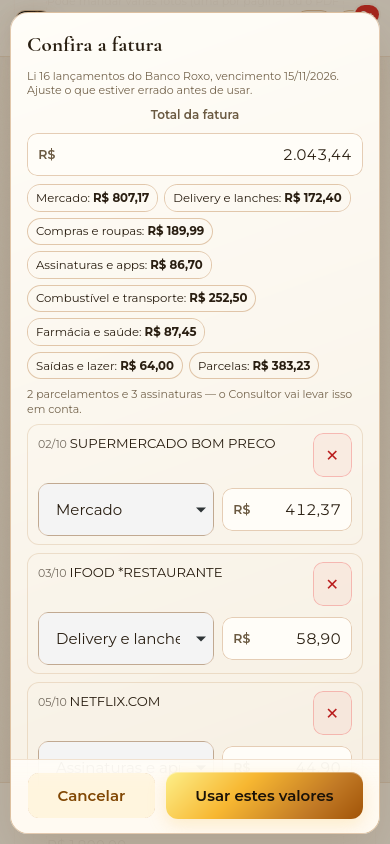
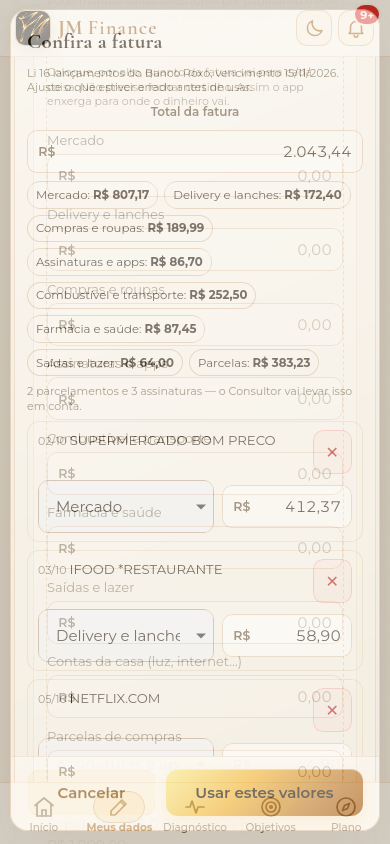
feat(objetivos): comparar juntar × financiamento × consórcio (custo total, parcela, prazo, espera pela contemplação), sem indicar empresa

Changed region(s): [[0.0, 0.0, 1.0, 1.0], [0.8, 0.3697, 0.8308, 0.4005]]

diff --git a/src/Consorcio.tsx b/src/Consorcio.tsx
@@ -1,0 +1,41 @@
+import { useState } from 'react';
+import { brl } from './finance';
+import { Adv } from './ui';
+import { compareBuy, buyKind, BUY_DEFAULTS, BuyParams } from './consorcio';
+
+const num = (s: string) => { const x = Number(String(s).replace(/\./g, '').replace(',', '.')); return Number.isFinite(x) ? x : 0; };
+const mo = (k: number) => k < 24 ? `${k} meses` : `${k} meses (~${Math.round(k / 12)} anos)`;
+
+/** Objetivos (carro, casa, compra grande): à vista × financiamento × consórcio */
+export function BuyWays({ name, price }: { name: string; price: number }) {
+  const kind = buyKind(name, price); const [p, setP] = useState<BuyParams>(BUY_DEFAULTS[kind]);
+  const [open, setOpen] = useState(false);
+  if (price < 10_000) return null;
+  const c = compareBuy(price, p);
+  const F = ({ k, label, suf, max }: { k: keyof BuyParams; label: string; suf: string; max: number }) => <label className="f-n">{label}
+    <input type="text" inputMode="decimal" aria-label={label} defaultValue={String(p[k]).replace('.', ',')} onBlur={e => { const v = num(e.target.value); if (v > 0 && v <= max) setP(q => ({ ...q, [k]: v })); }} /><small>{suf}</small></label>;
+  return <div className={`buy-ways ${open ? 'open' : ''}`}>
+    <button type="button" className="adv-toggle" aria-expanded={open} onClick={() => setOpen(o => !o)}><span>Juntar, financiar ou consórcio?</span>{!open && <small>compare</small>}<span className="adv-chev" aria-hidden="true">▾</span></button>
+    {open && <div className="adv-body">
+      <p className="fhint">Para {brl(price)} ({kind === 'imovel' ? 'imóvel' : 'veículo ou compra grande'}), com valores típicos de mercado. São estimativas para comparar — confira as propostas reais.</p>
+      <div className="buy-grid">
+        <div className="buy-col"><b>Juntar e comprar à vista</b>
+          <p>Guardando <b>{brl(c.save.monthly)}/mês</b></p><p>Tem o bem em <b>{c.save.months ? mo(c.save.months) : 'muito tempo'}</b></p><p>Custo: <b>{brl(price)}</b>, sem juros{c.save.earned > 0 ? `, e o dinheiro ainda rende ~${brl(c.save.earned)}` : ''}</p>
+          <p className="buy-note">À vista dá para negociar desconto.</p></div>
+        <div className="buy-col"><b>Financiamento</b>
+          <p>Parcela <b>{brl(c.fin.monthly)}/mês</b> por {mo(c.fin.months)}</p><p>Tem o bem <b>agora</b></p><p>Custo total: <b>{brl(c.fin.total)}</b> — <span className="bad-t">{brl(c.fin.extra)} de juros</span></p>
+          <p className="buy-note">O bem fica de garantia até a última parcela.</p></div>
+        <div className="buy-col"><b>Consórcio</b>
+          <p>Parcela <b>{brl(c.cons.monthly)}/mês</b> por {mo(c.cons.months)}</p><p>Tem o bem <b>quando for contemplado</b>: pode ser no 1º mês ou só no último (em média, perto do mês {c.cons.avgWait})</p>
+          <p>Custo total: <b>{brl(c.cons.total)}</b> — {brl(c.cons.extra)} de taxa de administração e fundo de reserva, sem juros</p>
+          <p className="buy-note">Sorteio todo mês; dar um lance (adiantar parcelas) aumenta a chance. A parcela é corrigida pela inflação (ex.: IPCA ou INCC) e o fundo de reserva pode voltar no fim.</p></div>
+      </div>
+      <p className="hint">Resumo: o consórcio fica no meio — custa menos que o financiamento, mas você não sabe quando terá o bem. Serve para quem pode esperar. Precisa do bem já? Financiamento, com a parcela cabendo na sobra. Pode esperar e tem disciplina? Juntar é o mais barato.</p>
+      <p className="fhint">Não indicamos administradora nem banco. Se for fazer consórcio, confira se a administradora é autorizada pelo Banco Central e leia o contrato (taxas, regras de lance e de desistência).</p>
+      <Adv note="juros e taxas">
+        <div className="buy-adv"><F k="rate" label="Juros do financiamento" suf="% ao mês" max={10} /><F k="finTerm" label="Parcelas do financiamento" suf="meses" max={420} />
+          <F k="adm" label="Taxa de administração (total)" suf="% do bem" max={40} /><F k="consTerm" label="Prazo do consórcio" suf="meses" max={240} /></div>
+      </Adv>
+    </div>}
+  </div>;
+}

diff --git a/src/consorcio.ts b/src/consorcio.ts
@@ -1,0 +1,19 @@
+/** Comparação simples: juntar e comprar à vista × financiamento × consórcio (sem indicar empresa ou produto). */
+export type BuyKind = 'imovel' | 'veiculo';
+export type BuyParams = { rate: number; finTerm: number; adm: number; fr: number; consTerm: number; ret: number };
+export const buyKind = (name: string, price: number): BuyKind => /casa|apart|apto|im[oó]vel|terreno|lote|ch[aá]cara/i.test(name) || price >= 150_000 ? 'imovel' : 'veiculo';
+export const BUY_DEFAULTS: Record<BuyKind, BuyParams> = {
+  veiculo: { rate: 1.9, finTerm: 48, adm: 15, fr: 2, consTerm: 60, ret: 0.5 },
+  imovel: { rate: 0.95, finTerm: 240, adm: 18, fr: 2, consTerm: 180, ret: 0.5 },
+};
+const pmt = (pv: number, i: number, k: number) => i === 0 ? pv / k : pv * i / (1 - Math.pow(1 + i, -k));
+export type BuyCompare = { price: number; fin: { monthly: number; total: number; extra: number; months: number }; cons: { monthly: number; total: number; extra: number; months: number; avgWait: number }; save: { monthly: number; months: number | null; earned: number } };
+export function compareBuy(price: number, p: BuyParams): BuyCompare {
+  const fm = pmt(price, p.rate / 100, p.finTerm), ft = fm * p.finTerm;
+  const ct = price * (1 + (p.adm + p.fr) / 100), cm = ct / p.consTerm;
+  // juntar o mesmo valor da parcela do consórcio, com rendimento seguro
+  let bal = 0, m = 0; const r = p.ret / 100; while (bal < price && m < 600) { bal = bal * (1 + r) + cm; m++; }
+  const months = bal >= price ? m : null;
+  return { price, fin: { monthly: fm, total: ft, extra: ft - price, months: p.finTerm }, cons: { monthly: cm, total: ct, extra: ct - price, months: p.consTerm, avgWait: Math.round(p.consTerm / 2) },
+    save: { monthly: cm, months, earned: months ? Math.max(0, bal - cm * months) : 0 } };
+}

diff --git a/src/index.css b/src/index.css
@@ -571,3 +571,7 @@ body.chat-open:not(.kb-open) .chat-input{padding-bottom:10px}
 .fat-l1{display:flex;justify-content:space-between;gap:8px;align-items:flex-start}.fat-desc{font-size:.88rem;word-break:break-word}.fat-desc small{opacity:.65}
 .fat-tag{font-style:normal;font-size:.7rem;margin-left:6px;padding:1px 6px;border-radius:6px;background:rgba(193,121,37,.18)}
 .fat-l2{display:flex;gap:8px;margin-top:6px;align-items:center}.fat-l2 select{flex:1;min-width:0}.fat-l2 .money{flex:0 0 130px}
+/* juntar × financiar × consórcio */
+.buy-ways{margin-top:10px}.buy-grid{display:grid;grid-template-columns:repeat(auto-fit,minmax(190px,1fr));gap:8px;margin:8px 0}
+.buy-col{border:1px solid var(--line2);border-radius:12px;padding:10px;font-size:.86rem}.buy-col>b{display:block;margin-bottom:4px;color:var(--gold,#e0b25a)}.buy-col p{margin:4px 0}
+.buy-note{opacity:.75;font-size:.8rem}.bad-t{color:#ff9b8a}.buy-adv{display:grid;grid-template-columns:repeat(auto-fit,minmax(150px,1fr));gap:8px}.buy-adv label{display:flex;flex-direction:column;gap:4px;font-size:.82rem}

diff --git a/src/App.tsx b/src/App.tsx
@@ -1,6 +1,7 @@
 import { useTheme, ThemeButton } from './theme';
 import { FlowCard } from './FlowCard';
 import { FaturaReader } from './FaturaReader';
+import { BuyWays } from './Consorcio';
 import { FATURA_URL } from './fatura';
 import { MovedBanner } from './MovedBanner';
 import { exportBackup } from './backup';
@@ -446,6 +447,7 @@ function Goals({ data, upd }: { data: Data; upd: (p: Partial<Data>) => void }) {
           <li>Cortar mais {brl(alt.cut)}/mês em gastos ou aumentar a renda nesse valor.</li>
         </ul>}
       </div>
+      {g.type !== 'aposentadoria' && g.type !== 'reserva' && (g.type === 'compra' || /carro|moto|casa|apart|apto|im[oó]vel|terreno|ve[ií]culo/i.test(g.name)) && <BuyWays name={g.name} price={Math.max(0, target - g.saved)} />}
       <Disc />
     </div>)}
     <button className="btn full" onClick={add}>+ Adicionar objetivo</button>
